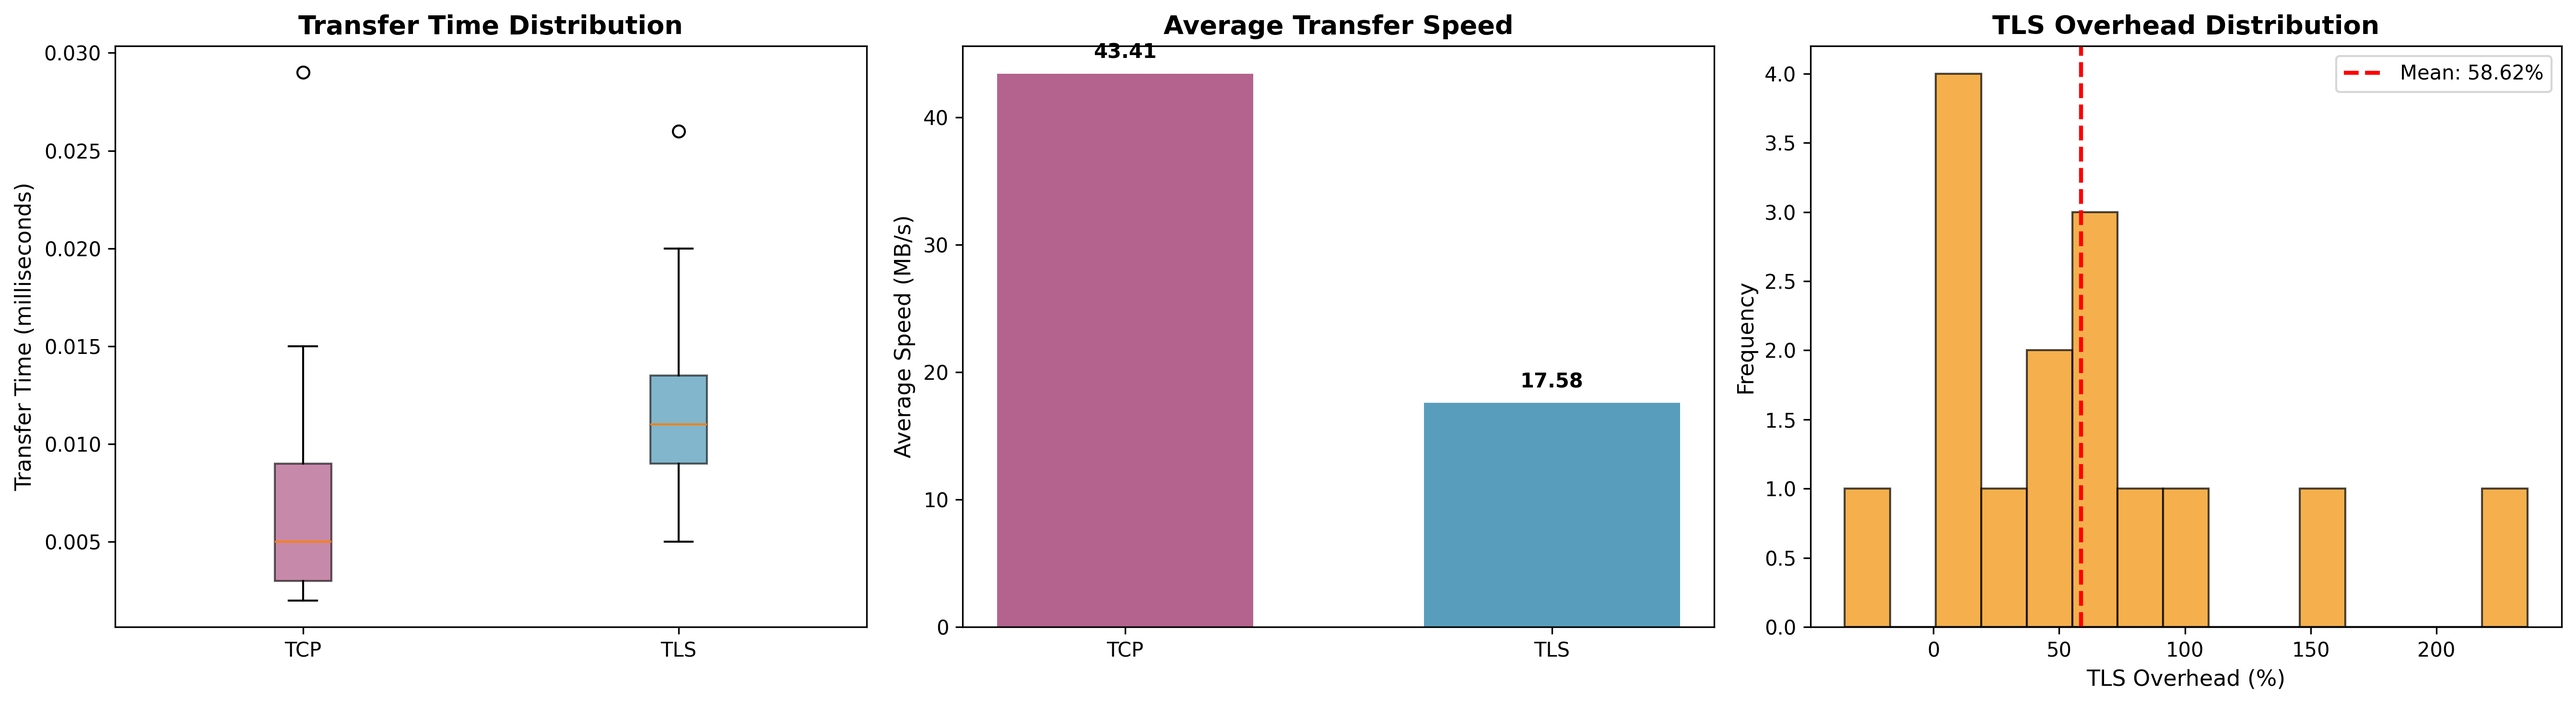
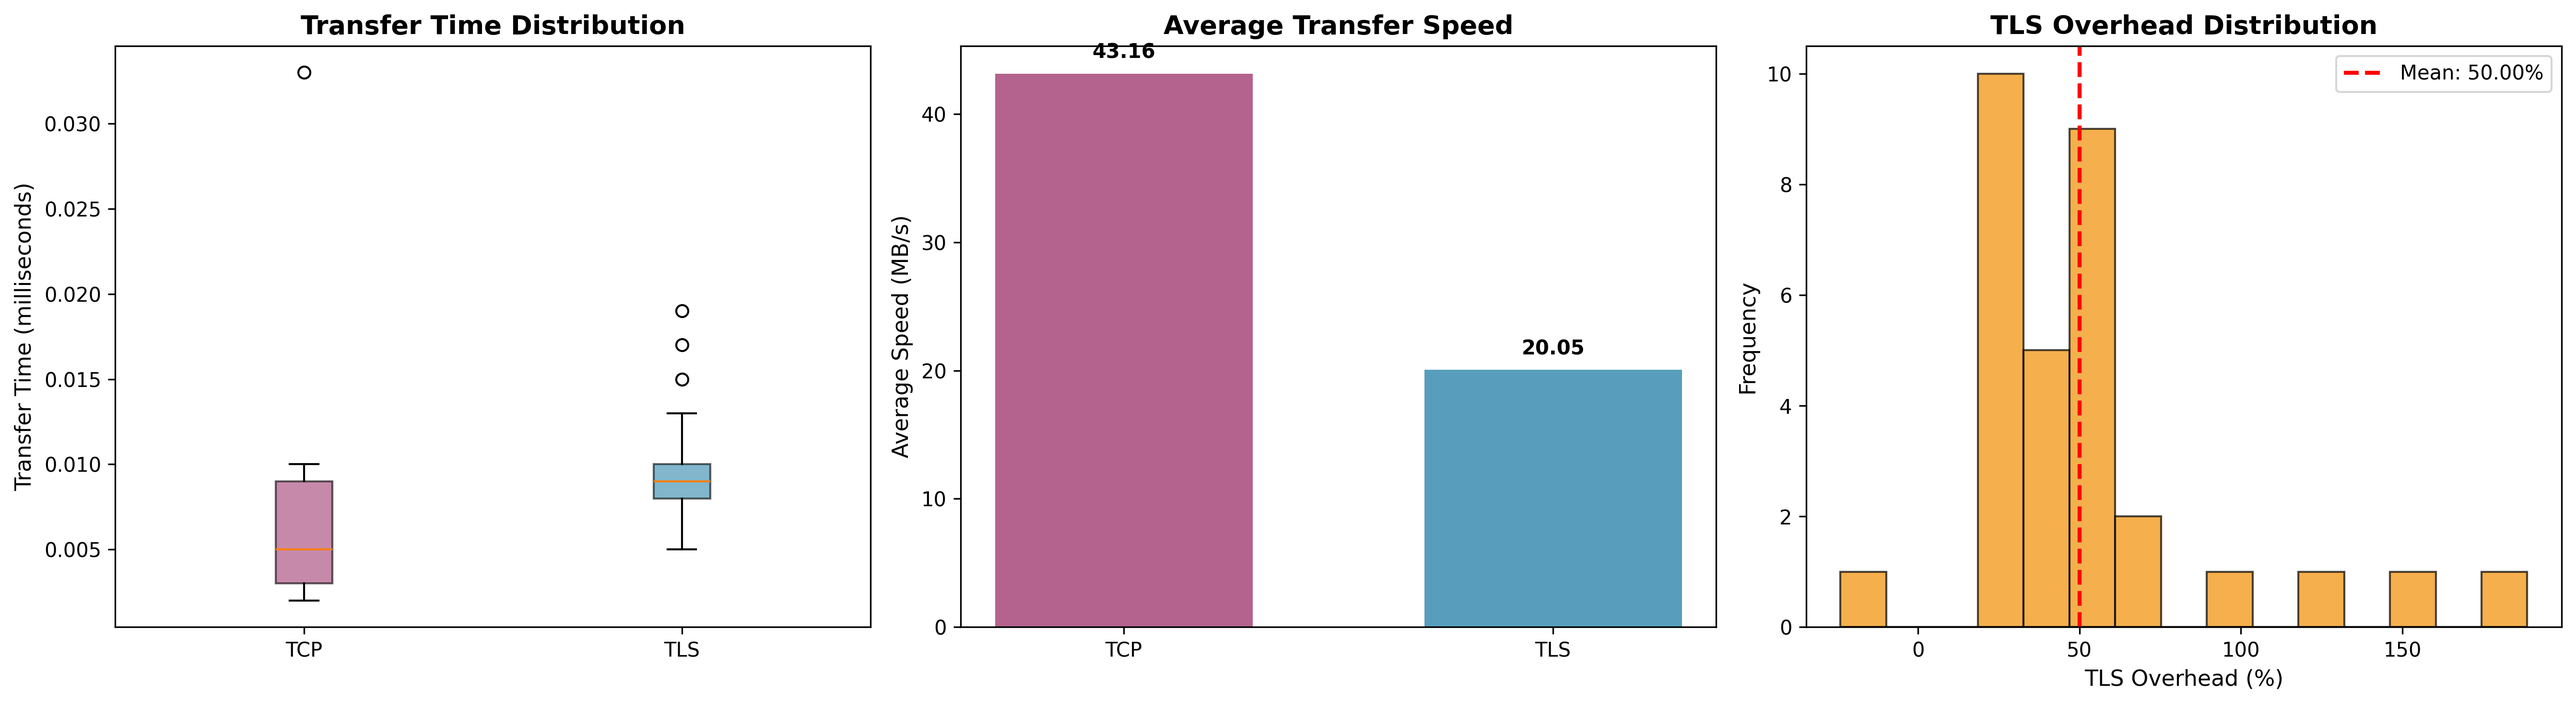
Atualiza o número total de testes para 31 e adiciona novos dados de desempenho

diff --git a/src/run_performance_tests.py b/src/run_performance_tests.py
@@ -7,7 +7,7 @@ from generate_server_key import generate_self_signed_cert
 import time
 
 PORT = 65432
-TOTAL_TESTS = 15
+TOTAL_TESTS = 31
 
 def run_client(file_path, use_tls, port):
     client = Client('localhost', port, use_tls)
